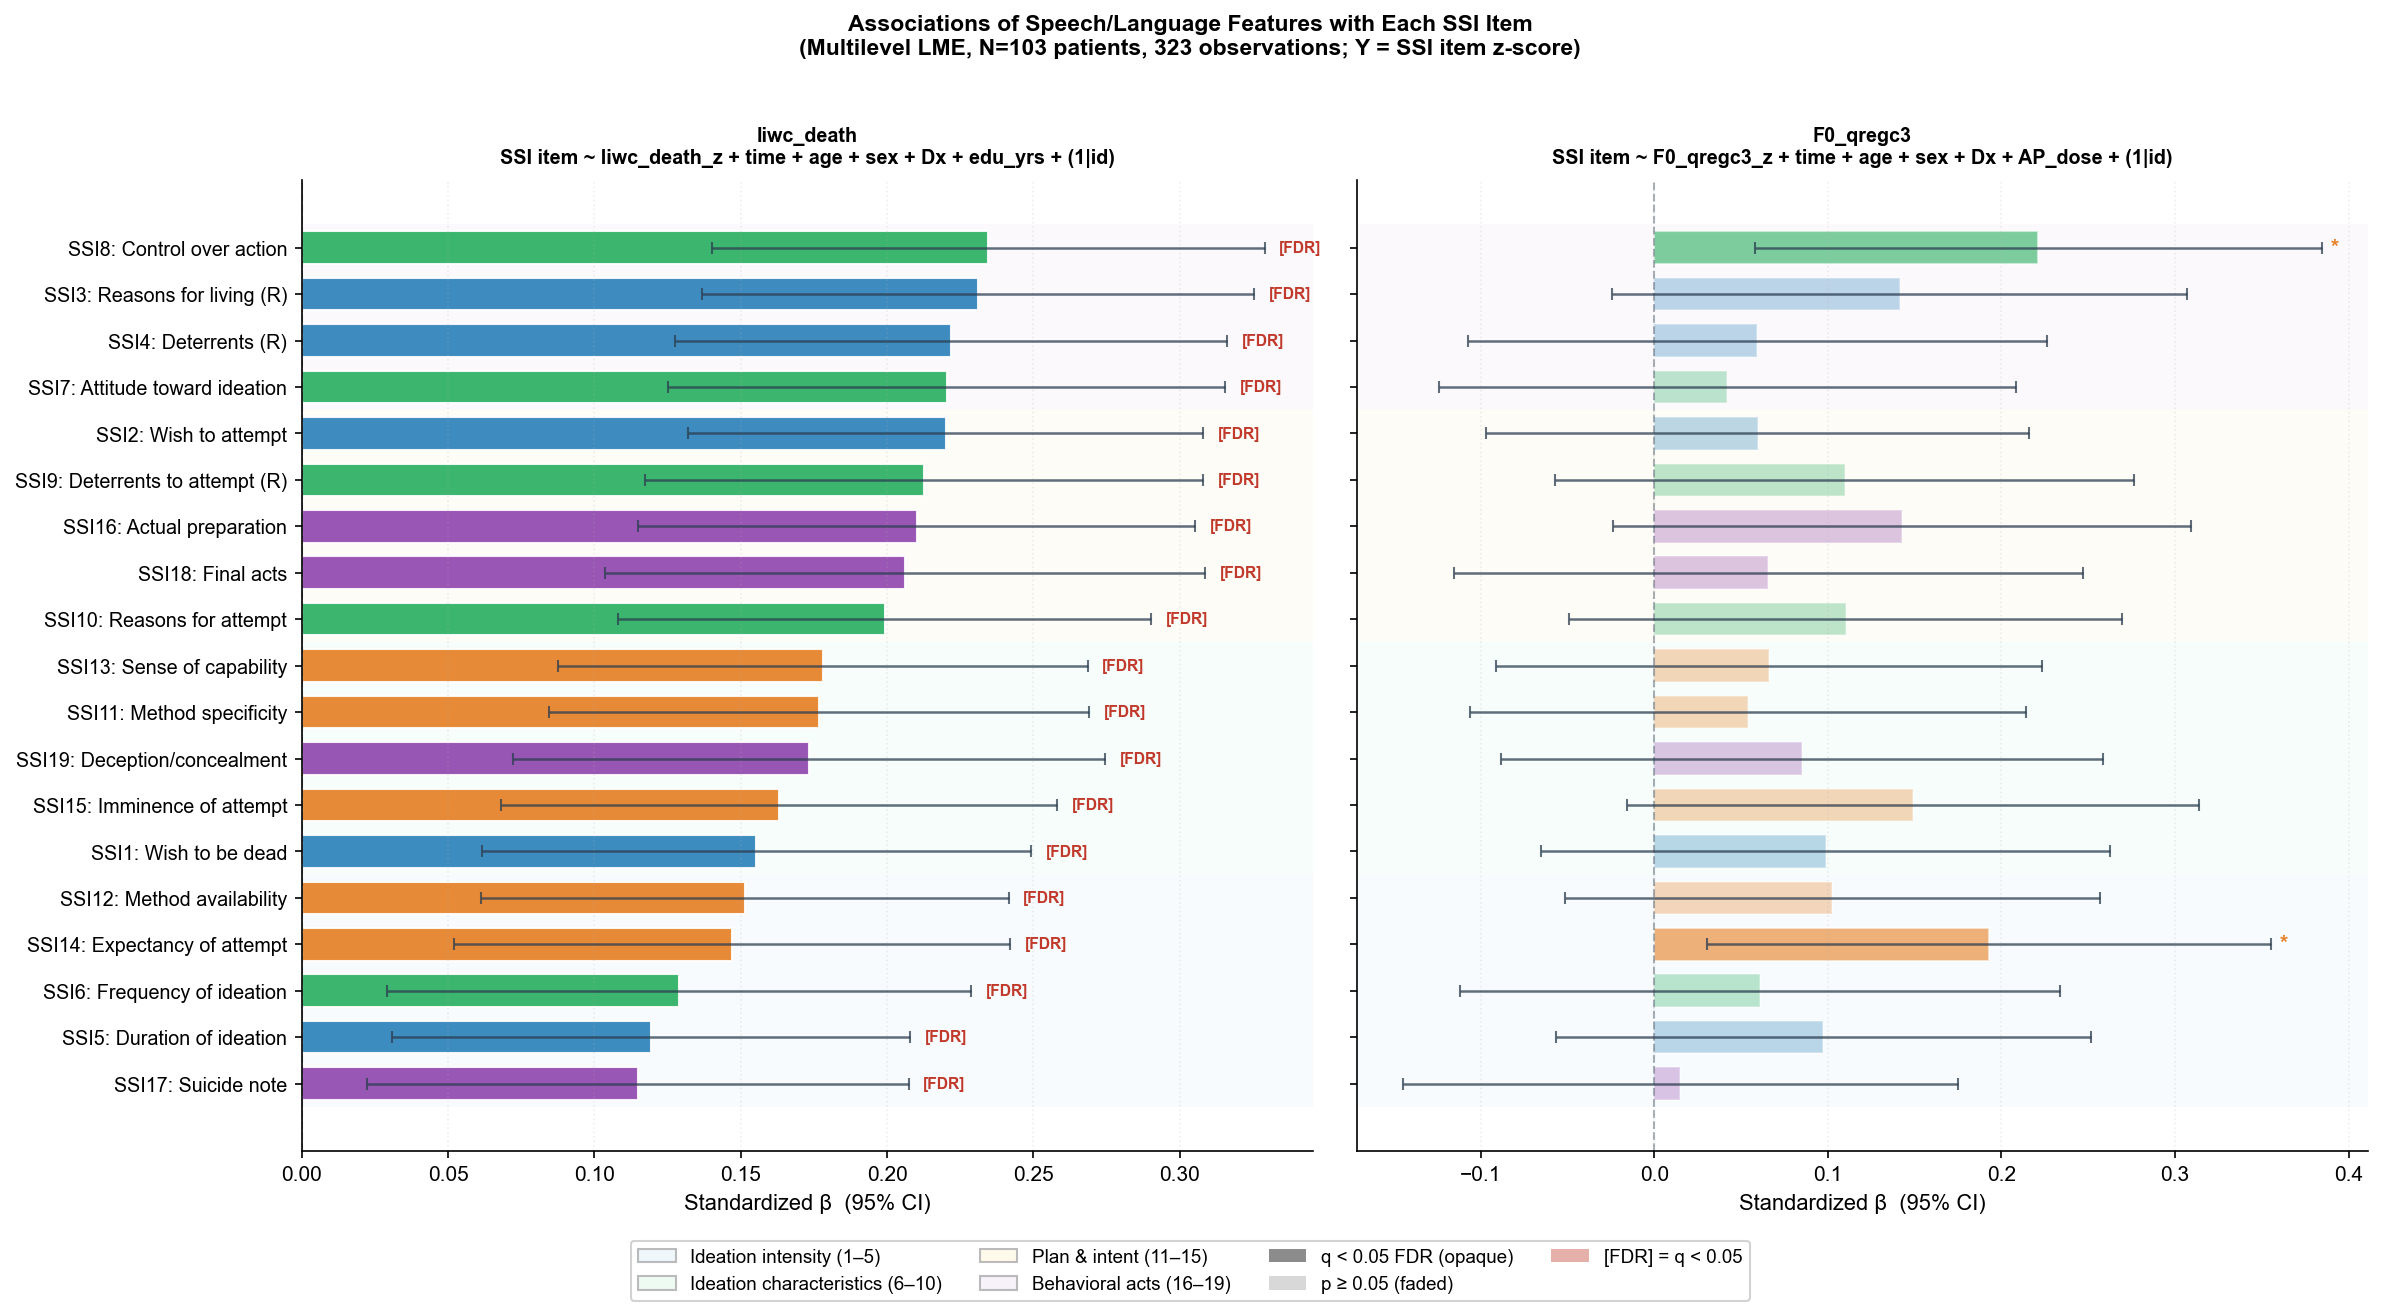
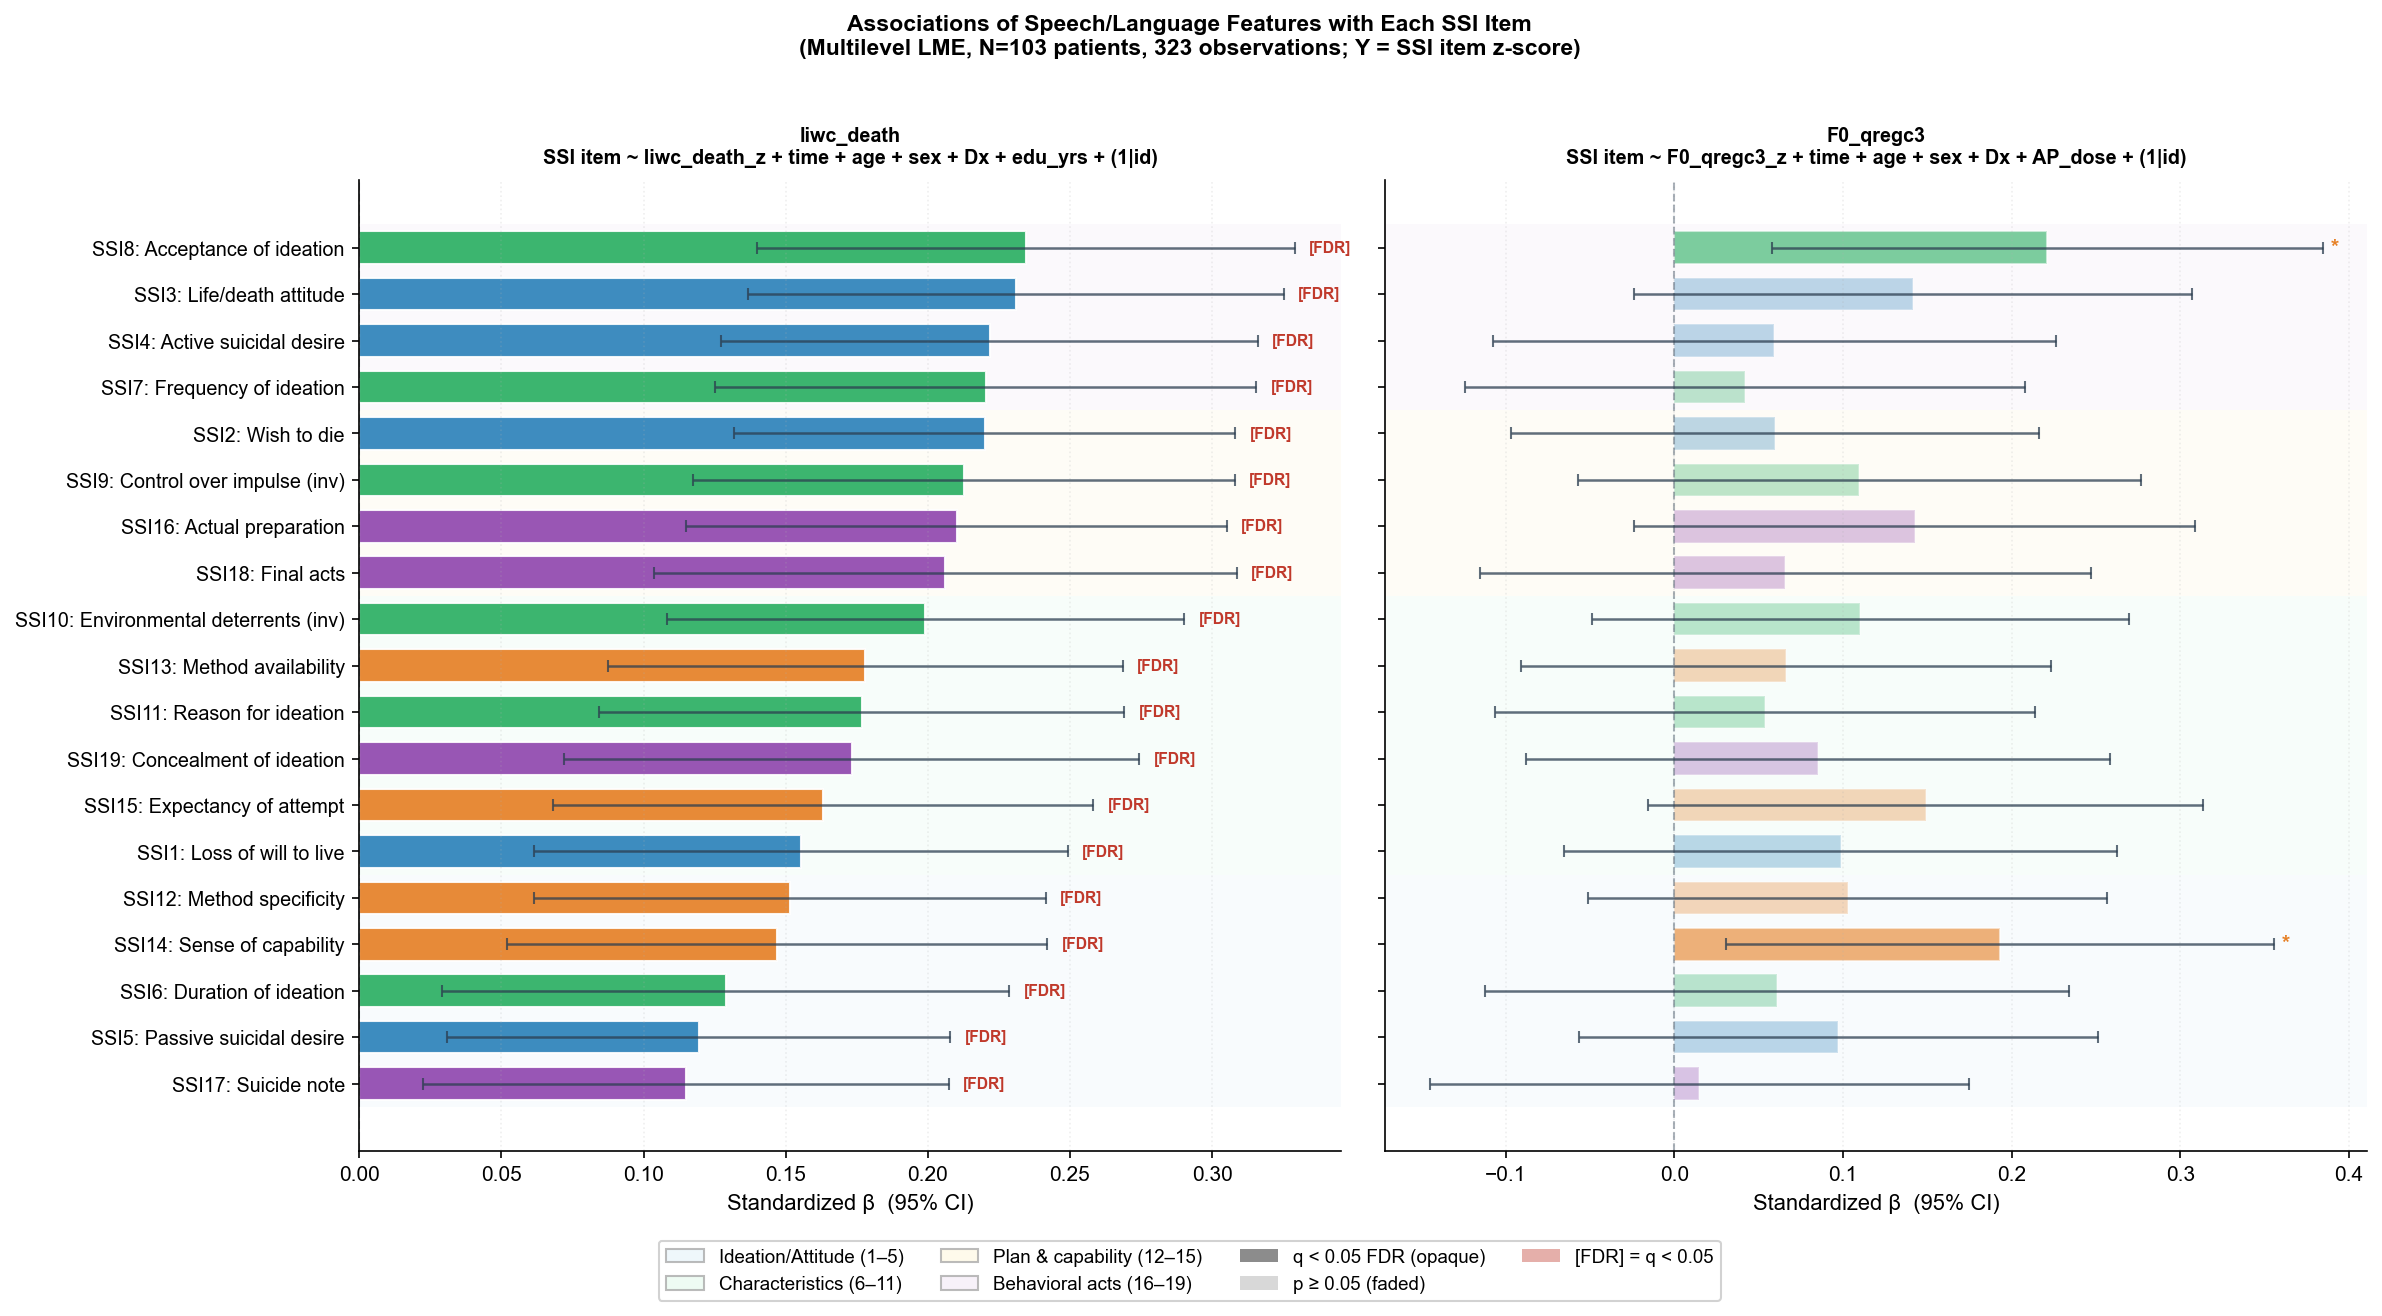
Fix SSI item labels (SSI4-15 were shifted); update domain groupings
Corrected mapping:
- SSI4: Active suicidal desire (not Deterrents)
- SSI5: Passive suicidal desire (not Duration)
- SSI6-11: Ideation characteristics (duration, frequency, acceptance,
  control, env deterrents, reason for ideation)
- SSI12-15: Plan & capability group

https://claude.ai/code/session_01RjnTqhxgmBNbXBjWGBsfdn

diff --git a/plot_ssi_item_lme.py b/plot_ssi_item_lme.py
@@ -19,39 +19,39 @@ res_liwc = pd.read_csv(f'{OUT}/ssi_item_lme_liwc_death.csv')
 res_f0   = pd.read_csv(f'{OUT}/ssi_item_lme_F0_qregc3.csv')
 
 SSI_LABELS = {
-    'SSI1':  'SSI1: Wish to be dead',
-    'SSI2':  'SSI2: Wish to attempt',
-    'SSI3':  'SSI3: Reasons for living (R)',
-    'SSI4':  'SSI4: Deterrents (R)',
-    'SSI5':  'SSI5: Duration of ideation',
-    'SSI6':  'SSI6: Frequency of ideation',
-    'SSI7':  'SSI7: Attitude toward ideation',
-    'SSI8':  'SSI8: Control over action',
-    'SSI9':  'SSI9: Deterrents to attempt (R)',
-    'SSI10': 'SSI10: Reasons for attempt',
-    'SSI11': 'SSI11: Method specificity',
-    'SSI12': 'SSI12: Method availability',
-    'SSI13': 'SSI13: Sense of capability',
-    'SSI14': 'SSI14: Expectancy of attempt',
-    'SSI15': 'SSI15: Imminence of attempt',
+    'SSI1':  'SSI1: Loss of will to live',
+    'SSI2':  'SSI2: Wish to die',
+    'SSI3':  'SSI3: Life/death attitude',
+    'SSI4':  'SSI4: Active suicidal desire',
+    'SSI5':  'SSI5: Passive suicidal desire',
+    'SSI6':  'SSI6: Duration of ideation',
+    'SSI7':  'SSI7: Frequency of ideation',
+    'SSI8':  'SSI8: Acceptance of ideation',
+    'SSI9':  'SSI9: Control over impulse (inv)',
+    'SSI10': 'SSI10: Environmental deterrents (inv)',
+    'SSI11': 'SSI11: Reason for ideation',
+    'SSI12': 'SSI12: Method specificity',
+    'SSI13': 'SSI13: Method availability',
+    'SSI14': 'SSI14: Sense of capability',
+    'SSI15': 'SSI15: Expectancy of attempt',
     'SSI16': 'SSI16: Actual preparation',
     'SSI17': 'SSI17: Suicide note',
     'SSI18': 'SSI18: Final acts',
-    'SSI19': 'SSI19: Deception/concealment',
+    'SSI19': 'SSI19: Concealment of ideation',
 }
 
-# SSI domain groupings for visual banding
+# SSI domain groupings (Beck SSI subscales)
+# Part I: Ideation/Attitude (1–5) — wish to live/die, active/passive desire
+# Part II: Characteristics (6–11) — duration, frequency, acceptance, control, deterrents, reason
+# Part III: Plan (12–15) — method specificity, availability, capability, expectancy
+# Part IV: Behavior (16–19) — preparation, note, final acts, concealment
 DOMAIN_COLORS = {
-    # Ideation intensity (1–5)
     'SSI1': '#2980B9', 'SSI2': '#2980B9', 'SSI3': '#2980B9',
     'SSI4': '#2980B9', 'SSI5': '#2980B9',
-    # Characteristics (6–10)
     'SSI6': '#27AE60', 'SSI7': '#27AE60', 'SSI8': '#27AE60',
-    'SSI9': '#27AE60', 'SSI10': '#27AE60',
-    # Plan/intent (11–15)
-    'SSI11': '#E67E22', 'SSI12': '#E67E22', 'SSI13': '#E67E22',
+    'SSI9': '#27AE60', 'SSI10': '#27AE60', 'SSI11': '#27AE60',
+    'SSI12': '#E67E22', 'SSI13': '#E67E22',
     'SSI14': '#E67E22', 'SSI15': '#E67E22',
-    # Behavior (16–19)
     'SSI16': '#8E44AD', 'SSI17': '#8E44AD',
     'SSI18': '#8E44AD', 'SSI19': '#8E44AD',
 }
@@ -78,9 +78,9 @@ panels = [
 for ax, (res, title, subtitle) in zip(axes, panels):
     res_idx = res.set_index('item')
 
-    # background bands for domains
-    domain_bounds = [(0, 5, '#EBF5FB'), (5, 10, '#EAFAF1'),
-                     (10, 15, '#FEF9E7'), (15, 19, '#F5EEF8')]
+    # background bands for domains (0-indexed y positions)
+    domain_bounds = [(0, 5, '#EBF5FB'), (5, 11, '#EAFAF1'),
+                     (11, 15, '#FEF9E7'), (15, 19, '#F5EEF8')]
     for ylo, yhi, col in domain_bounds:
         ax.axhspan(ylo - 0.5, yhi - 0.5, facecolor=col, alpha=0.35, zorder=0)
 
@@ -127,9 +127,9 @@ axes[0].set_yticklabels(ylabels, fontsize=9.5)
 
 # Domain legend
 domain_patches = [
-    mpatches.Patch(facecolor='#EBF5FB', edgecolor='#aaa', alpha=0.8, label='Ideation intensity (1–5)'),
-    mpatches.Patch(facecolor='#EAFAF1', edgecolor='#aaa', alpha=0.8, label='Ideation characteristics (6–10)'),
-    mpatches.Patch(facecolor='#FEF9E7', edgecolor='#aaa', alpha=0.8, label='Plan & intent (11–15)'),
+    mpatches.Patch(facecolor='#EBF5FB', edgecolor='#aaa', alpha=0.8, label='Ideation/Attitude (1–5)'),
+    mpatches.Patch(facecolor='#EAFAF1', edgecolor='#aaa', alpha=0.8, label='Characteristics (6–11)'),
+    mpatches.Patch(facecolor='#FEF9E7', edgecolor='#aaa', alpha=0.8, label='Plan & capability (12–15)'),
     mpatches.Patch(facecolor='#F5EEF8', edgecolor='#aaa', alpha=0.8, label='Behavioral acts (16–19)'),
     mpatches.Patch(facecolor='gray', alpha=0.90, label='q < 0.05 FDR (opaque)'),
     mpatches.Patch(facecolor='gray', alpha=0.30, label='p ≥ 0.05 (faded)'),
@@ -178,9 +178,9 @@ ax.set_title('Comparing Speech Feature Associations Across SSI Items\n'
              fontsize=11, fontweight='bold')
 
 domain_patches = [
-    mpatches.Patch(color='#2980B9', alpha=0.85, label='Ideation intensity (1–5)'),
-    mpatches.Patch(color='#27AE60', alpha=0.85, label='Ideation characteristics (6–10)'),
-    mpatches.Patch(color='#E67E22', alpha=0.85, label='Plan & intent (11–15)'),
+    mpatches.Patch(color='#2980B9', alpha=0.85, label='Ideation/Attitude (1–5)'),
+    mpatches.Patch(color='#27AE60', alpha=0.85, label='Characteristics (6–11)'),
+    mpatches.Patch(color='#E67E22', alpha=0.85, label='Plan & capability (12–15)'),
     mpatches.Patch(color='#8E44AD', alpha=0.85, label='Behavioral acts (16–19)'),
 ]
 ax.legend(handles=domain_patches, fontsize=9, loc='upper left', framealpha=0.88)
